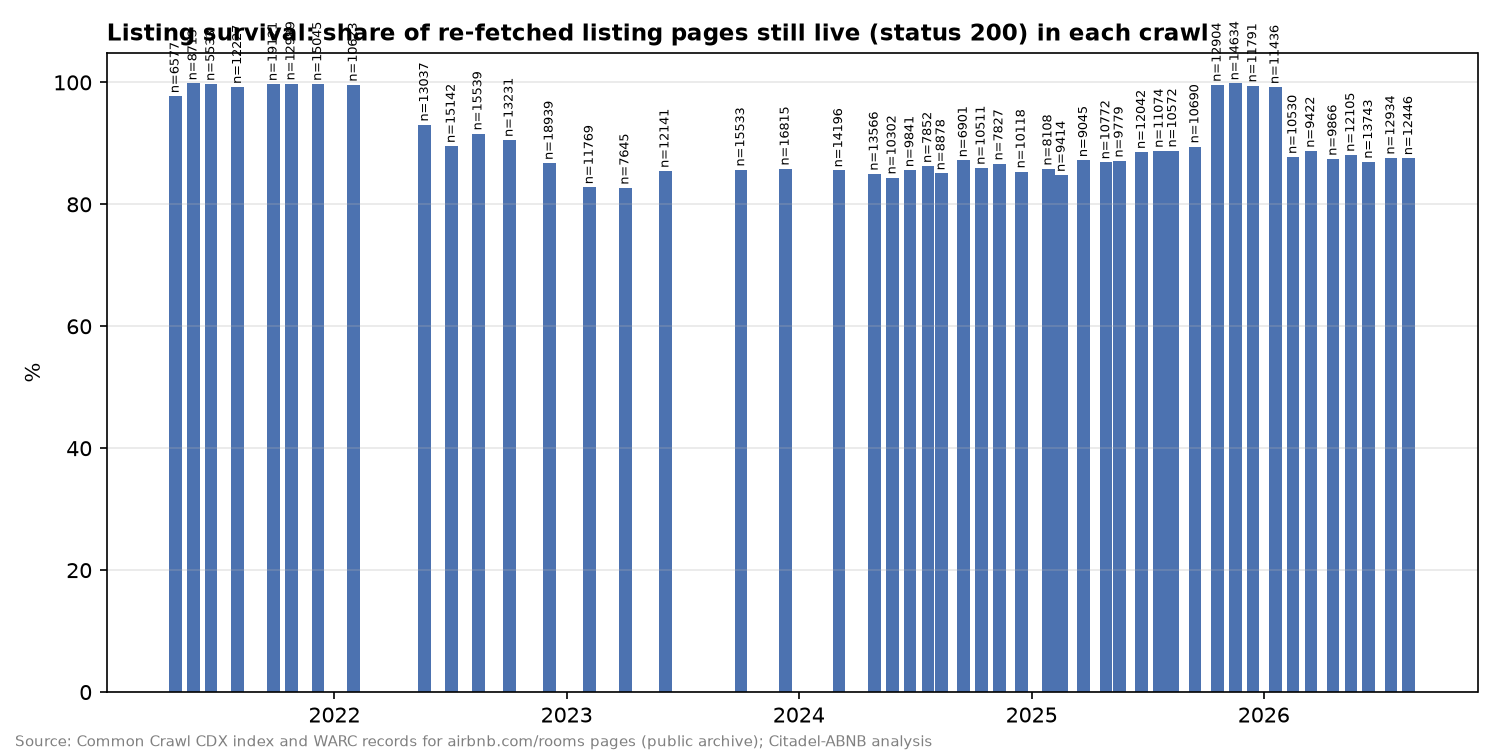
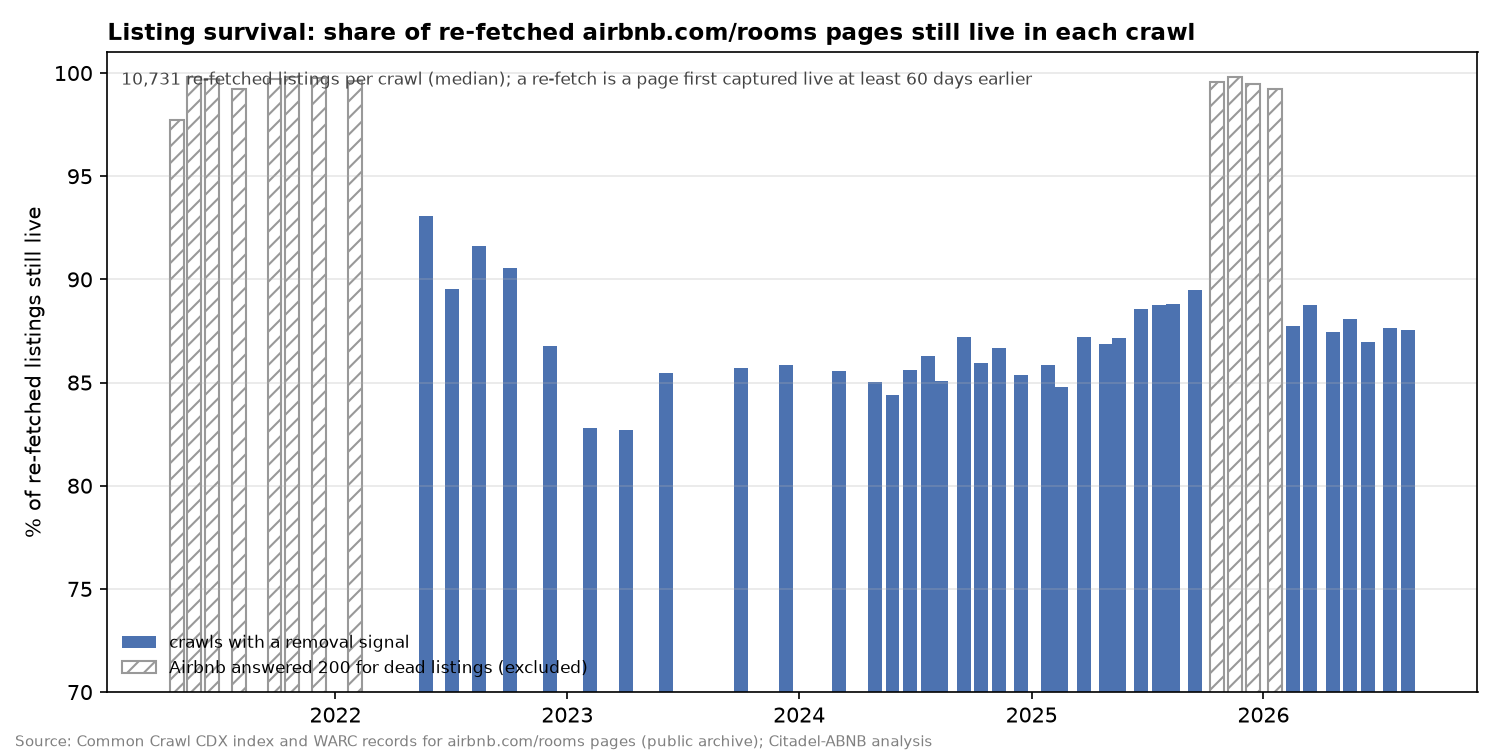
Tighten the survival exhibit: 2% removal threshold for informative crawls, redrawn figure
Jan 2026 (CC-MAIN-2026-04) had 0.6% removals against 4-16% in crawls with a real 404
signal, so it joins the excluded soft-200 group; the figure now hatches excluded
crawls and uses a 70-100% axis so the 2023-2026 variation is visible.

Claude-Session: https://claude.ai/code/session_01BMrVWxSWBhqnTxAHQ8kCFs

diff --git a/analysis/src/cc_listing_panel.py b/analysis/src/cc_listing_panel.py
@@ -315,7 +315,7 @@ def survival(args):
     s["crawl_date"] = s.crawl.map(crawl_date)
     s["year"] = s.crawl_date.dt.year
     # crawls where Airbnb answered 200 for everything (2021, Oct 2025 to Jan 2026) carry no removal signal
-    s["status_informative"] = (s.removed / s.refetched) >= 0.005
+    s["status_informative"] = (s.removed / s.refetched) >= 0.02
     inf = set(s.loc[s.status_informative, "crawl"])
     re_ = re_[re_.crawl.isin(inf)]
     by_age = re_.groupby(["age_bucket"], observed=True).agg(refetched=("listing_id", "size"), live=("outcome", lambda v: (v == "live").sum())).reset_index()
@@ -539,12 +539,14 @@ def figures(args):
     foot = "Source: Common Crawl CDX index and WARC records for airbnb.com/rooms pages (public archive); Citadel-ABNB analysis"
     s = pd.read_csv(PROC / "cc_listing_survival.csv", parse_dates=["crawl_date"])
     s = s[s.refetched >= 50]
+    inf, uninf = s[s.status_informative], s[~s.status_informative]
     fig, ax = plt.subplots(figsize=(10, 5))
-    ax.bar(s.crawl_date, s.survival_share * 100, width=20, color="#4C72B0")
-    ax.set_title("Listing survival: share of re-fetched listing pages still live (status 200) in each crawl", loc="left", fontweight="bold", fontsize=11)
-    ax.set_ylabel("%"); ax.grid(alpha=0.3, axis="y")
-    for d, v, n in zip(s.crawl_date, s.survival_share * 100, s.refetched):
-        ax.text(d, v + 1, f"n={n}", ha="center", fontsize=6, rotation=90)
+    ax.bar(inf.crawl_date, inf.survival_share * 100, width=22, color="#4C72B0", label="crawls with a removal signal")
+    ax.bar(uninf.crawl_date, uninf.survival_share * 100, width=22, color="none", edgecolor="#999999", hatch="///", label="Airbnb answered 200 for dead listings (excluded)")
+    ax.set_ylim(70, 101); ax.set_ylabel("% of re-fetched listings still live")
+    ax.set_title("Listing survival: share of re-fetched airbnb.com/rooms pages still live in each crawl", loc="left", fontweight="bold", fontsize=11)
+    ax.text(0.01, 0.97, f"{int(inf.refetched.median()):,} re-fetched listings per crawl (median); a re-fetch is a page first captured live at least 60 days earlier", transform=ax.transAxes, fontsize=8, va="top", color="#444444")
+    ax.legend(frameon=False, fontsize=8, loc="lower left"); ax.grid(alpha=0.3, axis="y")
     fig.text(0.01, 0.005, foot, fontsize=7, color="grey"); fig.tight_layout(); fig.savefig(FIG / "cc_listing_survival.png", dpi=150); plt.close(fig)
     m = pd.read_csv(PROC / "cc_matched_listings.csv")
     ok = m[m.review_delta.notna() & (m.review_delta >= 0)]

diff --git a/research/notes/2026-09-05_cc-listing-panel.md b/research/notes/2026-09-05_cc-listing-panel.md
@@ -9,7 +9,7 @@
 ## 1. Headline findings
 
 1. **No price, confirmed at scale.** 3,000 full page renders across six years and zero contain a nightly price (`structuredDisplayPrice` is null or absent in every era). The archive cannot give a pricing panel; Inside Airbnb does (`research/notes/2026-09-05_inside-airbnb-supply-panel.md`).
-2. **Listing survival is 85% to 90% a year on, and older listings die slower than in Inside Airbnb's city dumps.** Among listings the crawler re-fetched after a first successful capture, the share still returning a live page was 90% in 2022, 85% in 2023 and 2024, 88% in 2025 and 89% in 2026 (informative crawls only, section 2). By listing age: 92% at 2 to 12 months, 88% at 1 to 2 years, 86% at 2 to 3 years, 84% past three years. These are higher than Inside Airbnb's 63% to 82% year-ago retention because the crawler only re-visits pages it can still reach by link, which selects for listings that are still marketed.
+2. **Listing survival is 85% to 90% a year on, and older listings die slower than in Inside Airbnb's city dumps.** Among listings the crawler re-fetched after a first successful capture, the share still returning a live page was 90% in 2022, 85% in 2023 and 2024, and 88% in 2025 and 2026 (informative crawls only, section 2). By listing age: 92% at 2 to 12 months, 87% at 1 to 2 years, 86% at 2 to 3 years, 84% past three years. These are higher than Inside Airbnb's 63% to 82% year-ago retention because the crawler only re-visits pages it can still reach by link, which selects for listings that are still marketed.
 3. **Same-listing review velocity has been flat for five years.** On 1,487 matched pairs (median 481 days apart), listings added a mean of 15 to 27 reviews a year depending on the window, with medians of 8 to 23. The most recent window (2025 to 2026, 81 pairs) is 19 reviews a year mean, 11 median, with 6% of listings adding no review, versus 21 mean, 12 median and 13% no review in 2021 to 2022. No acceleration and no collapse in bookings per surviving listing.
 4. **The captured base has professionalised.** Superhost share of parsed captures rose from 58% (2021) to 61% (2026); entire-home share from 80% to 90%; median review count from 30 to 75. Guest Favorite, parsed reliably from 2025, is 71% of 2025 captures and 52% of 2026 captures. Hosts in 2025 to 2026 captures have a median 7 years hosting and 198 host-level reviews.
 5. **The archive's geography shifted toward North America.** North American listings were 28% of 2021 captures and 48% of 2026 captures; Europe fell from 48% to 34%. This is the crawler's reach (the 2026 US pages arrive with `utm_source=chatgpt.com`), not Airbnb's supply mix, and it is the main reason cross-year comparisons in 4 need the same-listing framing.
@@ -22,11 +22,11 @@
 | WARC records | 3,000 full renders (1,500 listings x earliest and latest capture), 0.5 to 1.0 MB HTML each | `data/raw/commoncrawl/records/<crawl>/<id>.warc.gz`, gitignored |
 | Parsed captures | 3,000 rows, 100% with review count, Superhost flag, room type and coordinates | `data/processed/cc_listing_panel.csv` |
 | Matched pairs | 1,500; 1,487 with a non-negative review delta | `data/processed/cc_matched_listings.csv`, window summary `cc_panel_summary.csv`, capture-year summary `cc_panel_by_year.csv` |
-| Survival | 48 crawls with re-fetches, 37 informative | `data/processed/cc_listing_survival.csv`, `cc_listing_survival_by_age.csv` |
+| Survival | 48 crawls with re-fetches, 36 informative | `data/processed/cc_listing_survival.csv`, `cc_listing_survival_by_age.csv` |
 
 Index rows were read straight from each crawl's cdx shards on `data.commoncrawl.org` (binary search of `cluster.idx`, then the 4 to 10 compressed blocks covering the `com,airbnb)/rooms/` key range), because the `index.commoncrawl.org` API blocked this IP after a few dozen queries. Shard rows harvested in the first pass (crawls 2021-04 to 2023-14) carry no capture timestamp; the crawl's ISO-week date stands in (`ts_from_crawl`), which is within two weeks of the truth.
 
-**Informative crawls.** From CC-MAIN-2021-17 to 2022-05 and from CC-MAIN-2025-43 to 2025-51 Airbnb answered 200 for essentially every re-fetched listing, including dead ones (zero to 39 removals against 5.5k to 19k re-fetches), so those 11 crawls carry no removal signal and are excluded from the survival series (`status_informative`, threshold 0.5%). Elsewhere removals run 1% to 16% of re-fetches (CC-MAIN-2026-04 is borderline at 0.6%), mostly 404 and 410.
+**Informative crawls.** From CC-MAIN-2021-17 to 2022-05 and from CC-MAIN-2025-43 to 2026-04 Airbnb answered 200 for essentially every re-fetched listing, including dead ones (zero to 65 removals against 5.5k to 19k re-fetches), so those 12 crawls carry no removal signal and are excluded from the survival series (`status_informative`, threshold 2% removals). Elsewhere removals run 4% to 16% of re-fetches, mostly 404 and 410.
 
 ## 3. Definitions
 
@@ -50,9 +50,9 @@ Index rows were read straight from each crawl's cdx shards on `data.commoncrawl.
 | 2023 | 5 | 63,903 | 54,187 | 9,125 | 589 | 84.8% |
 | 2024 | 10 | 99,992 | 85,598 | 13,845 | 467 | 85.6% |
 | 2025 | 9 | 91,496 | 80,163 | 10,973 | 341 | 87.6% |
-| 2026 | 8 | 92,482 | 82,428 | 9,786 | 255 | 89.1% |
+| 2026 | 7 | 81,046 | 71,082 | 9,721 | 230 | 87.7% |
 
-By age since first capture: 2 to 12 months 92.3% (85,936 re-fetches), 1 to 2 years 87.5% (171,512), 2 to 3 years 85.8% (74,456), over 3 years 84.3% (91,857). Per-crawl series and figure: `cc_listing_survival.csv`, `cc_listing_survival.png`.
+By age since first capture: 2 to 12 months 92.1% (83,812 re-fetches), 1 to 2 years 87.2% (166,527), 2 to 3 years 85.6% (73,383), over 3 years 83.8% (88,603). Per-crawl series and figure: `cc_listing_survival.csv`, `cc_listing_survival.png`.
 
 ### 4.2 Same-listing review velocity by window
 
